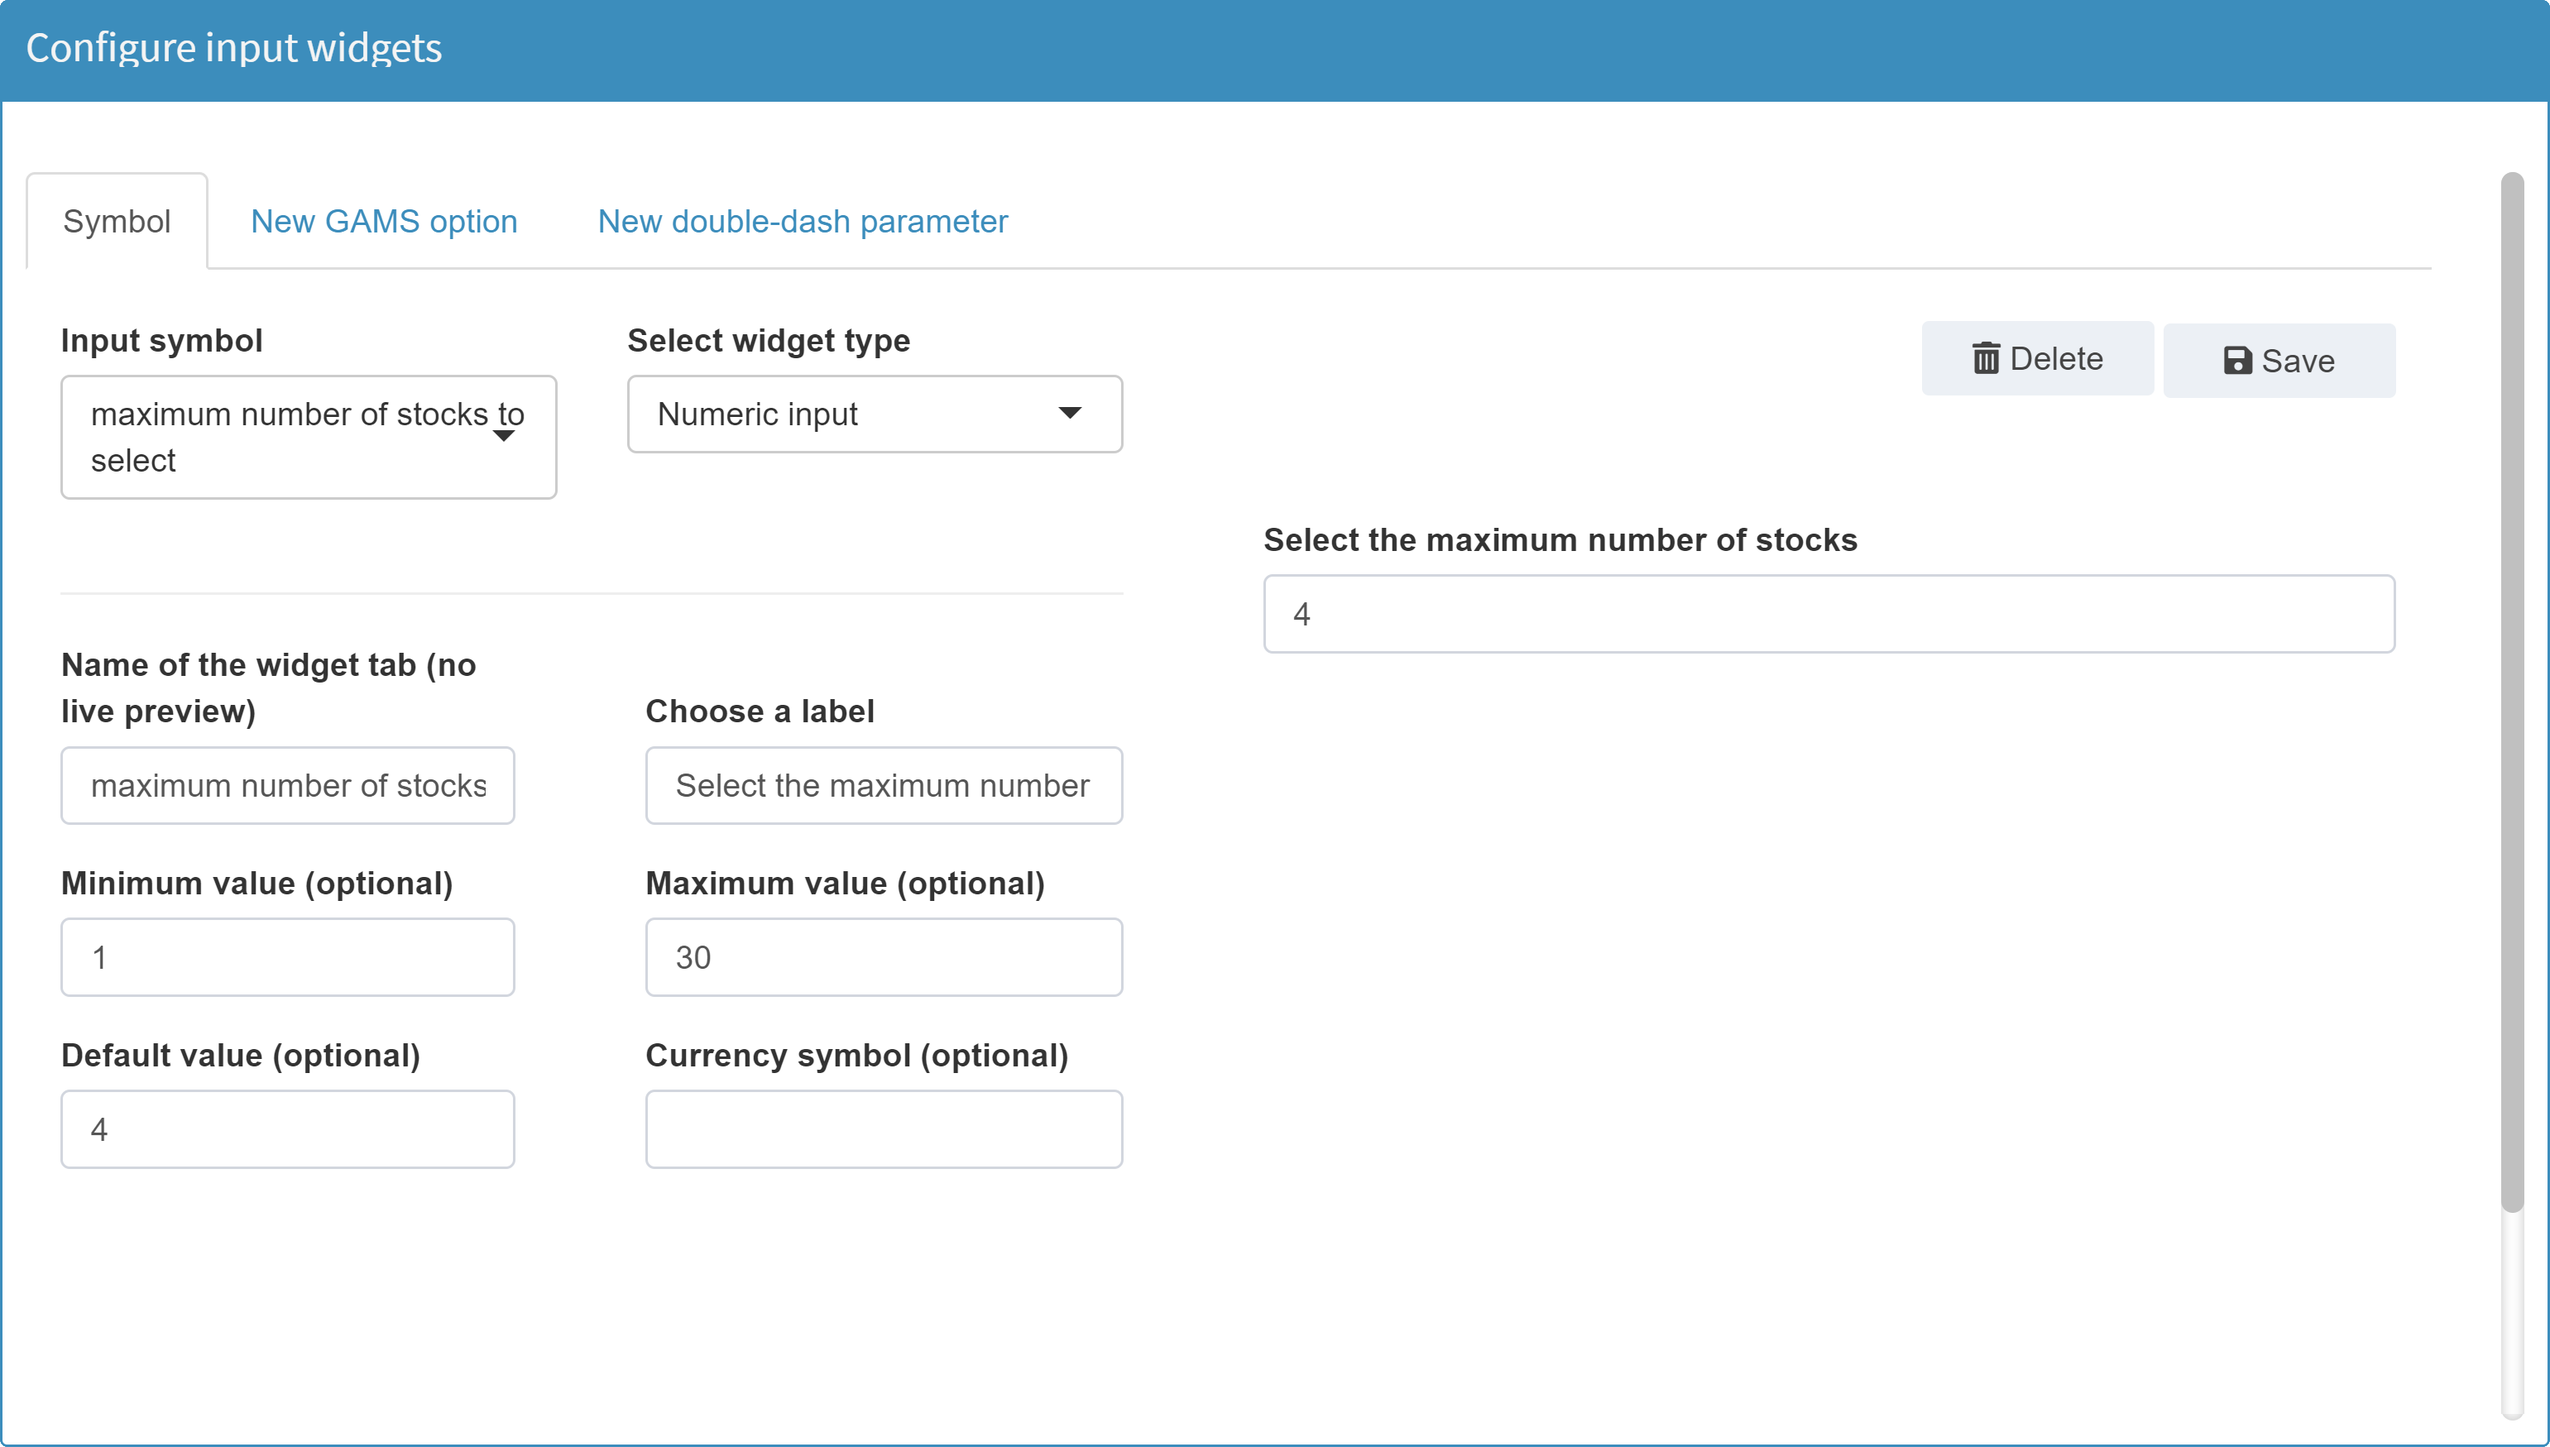
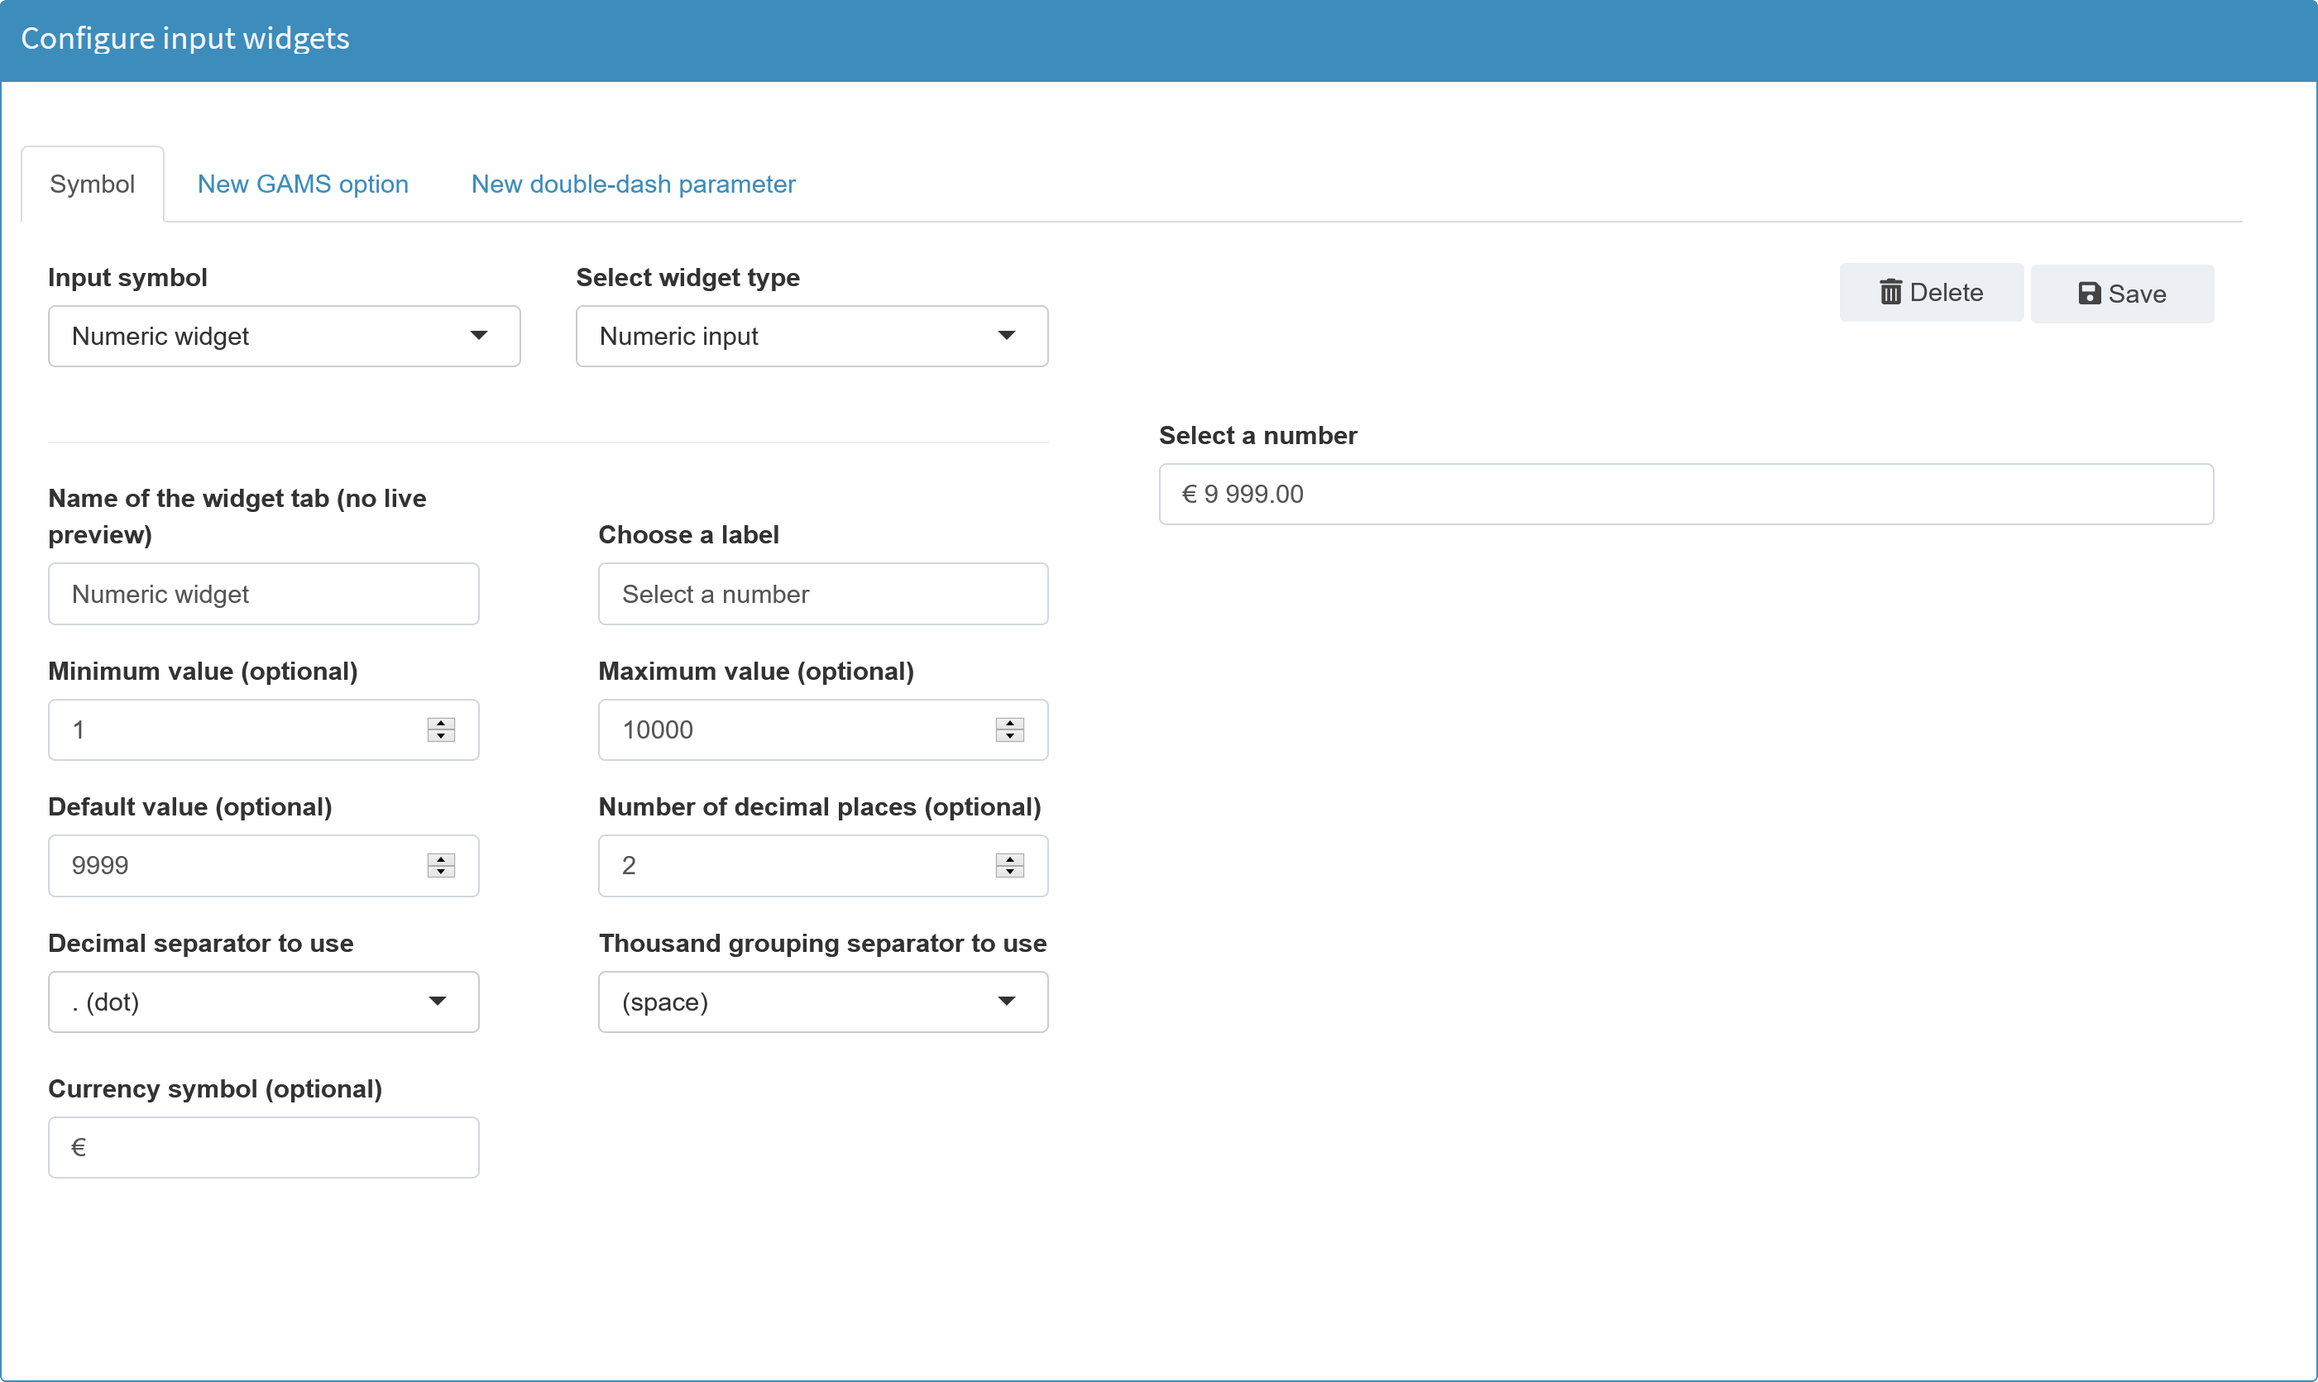
added options for (auto)numericInput widget to define the decimal separator and the thousand groups separator. TODO: Display of unicode characters in dropdown (Configuration mode) needs to be tested!

diff --git a/doc/widgets.html b/doc/widgets.html
@@ -822,7 +822,6 @@ $offExternalInput
                                   <h3 class="block-title">Configuration</h3>
                                     <p>Returns a number.</p>
                                     <p>Example: </p>
-                                    <p>Numeric input for Scalar <i>maxstock</i> (<i>maximum numer of stocks to select</i>):<p>
                                     <div class="section-block">
                                         <img class="img-fluid" style= "max-height:400pt;" src="assets/images/configuration_mode/widget_numeric_config.png" alt="Numeric input configuration"/>
                                     </div>
@@ -845,6 +844,15 @@ $offExternalInput
                                     </div>
                                     <h6 id="numeric-option-maximum" class="block-title" onclick="$(this).next().slideToggle();$(this).find('.slide-toggle').toggleClass( 'fa-plus fa-minus' );" style="cursor:pointer;"><i class="fas fa-plus slide-toggle"></i> Maximum value</h6>
                                     <div class="expanded"><p>Specifies the maximum valid value for the widget. This is optional. </p>
+                                    </div>
+                                    <h6 id="numeric-option-decimal-places" class="block-title" onclick="$(this).next().slideToggle();$(this).find('.slide-toggle').toggleClass( 'fa-plus fa-minus' );" style="cursor:pointer;"><i class="fas fa-plus slide-toggle"></i> Number of decimal places</h6>
+                                    <div class="expanded"><p>Defines the default number of decimal places to show on the formatted value, and keep for the precision</p>
+                                    </div>
+                                    <h6 id="numeric-option-decimal-separator" class="block-title" onclick="$(this).next().slideToggle();$(this).find('.slide-toggle').toggleClass( 'fa-plus fa-minus' );" style="cursor:pointer;"><i class="fas fa-plus slide-toggle"></i> Decimal separator to use</h6>
+                                    <div class="expanded"><p>Defines the decimal separator character to be used. Default: "." (dot).</p>
+                                    </div>
+                                    <h6 id="numeric-option-thousand-separator" class="block-title" onclick="$(this).next().slideToggle();$(this).find('.slide-toggle').toggleClass( 'fa-plus fa-minus' );" style="cursor:pointer;"><i class="fas fa-plus slide-toggle"></i> Thousand grouping separator to use</h6>
+                                    <div class="expanded"><p>Defines the thousand grouping separator character to be used. Default: "," (comma).</p>
                                     </div>
                                     <h6 id="numeric-option-sign" class="block-title" onclick="$(this).next().slideToggle();$(this).find('.slide-toggle').toggleClass( 'fa-plus fa-minus' );" style="cursor:pointer;"><i class="fas fa-plus slide-toggle"></i> Currency symbol</h6>
                                     <div class="expanded"><p>Places a symbol in front of the entered value, e.g. a dollar sign. This option is used exclusively for visual support. 

diff --git a/doc/release.html b/doc/release.html
@@ -69,10 +69,12 @@
                                       <li>Added option to specify files that should be attached after a GAMS run executes successfully. This allows you to add additional data to the data displayed in the user interface and add states to your scenarios to implement processes. You can find further information 
                                       <a href = "./customize.html#general-output-attach">here</a>.</li>
                                       <li>Added option to include TeX notation in README files via the <i>enableMath</i> switch. Wrap your TeX formulas in <kbd>$</kbd> tags for inline rendering or between <kbd>$$</kbd> for rendering as a formula block. Find more information about this feature <a href="./customize.html#app-readme">here</a>.</li>
+									  <li>The <a href="./widgets.html#widget-textbox">text input widget</a> can now be configured for Singleton Sets.</li>
                                     </ul>
                                     <h3>Minor new features and improvements</h3>
                                     <ul>
                                       <li>Symbol metadata (symtype and headers) are now passed to the custom renderer/custom widget via the options list. The nested list can be accessed via the key <code class="language-r">options[["_metadata_"]]</code>.</li>
+									  <li>Added option to define the decimal separator character and the thousand groups separator character for <a href="./widgets.html#widget-numeric">numeric inputs</a></li>
                                       <li>R is now bundled with MIRO on macOS.</li>
                                       <li>Data is now imported when a new MIRO application is added to the library instead of when the application is first started.</li>
                                       <li>When a new MIRO application is added to the library, the database tables are now checked for consistency.</li>
@@ -80,6 +82,7 @@
                                     <h3>Bug fixes</h3>
                                     <ul>
                                       <li>Configuration Mode: Fixed a bug that caused adding a script with an already existing id not to be validated properly in certain situations</li>
+                                      <li>Configuration Mode: Fixed a bug where an incorrect widget configuration was displayed for symbols with a JSON configuration that is not (yet) supported by Configuration mode.</li>
                                       <li>Orphaned tables were not found when model name includes underscores.</li>
                                       <li>An error that should only occur if the list/log file exceeds a certain file size was incorrectly displayed when starting a new GAMS run.</li>
                                       <li>Model names that included an underscore "_" caused MIRO to throw an exception when downloading scenario data in Hyperube Mode.</li>
